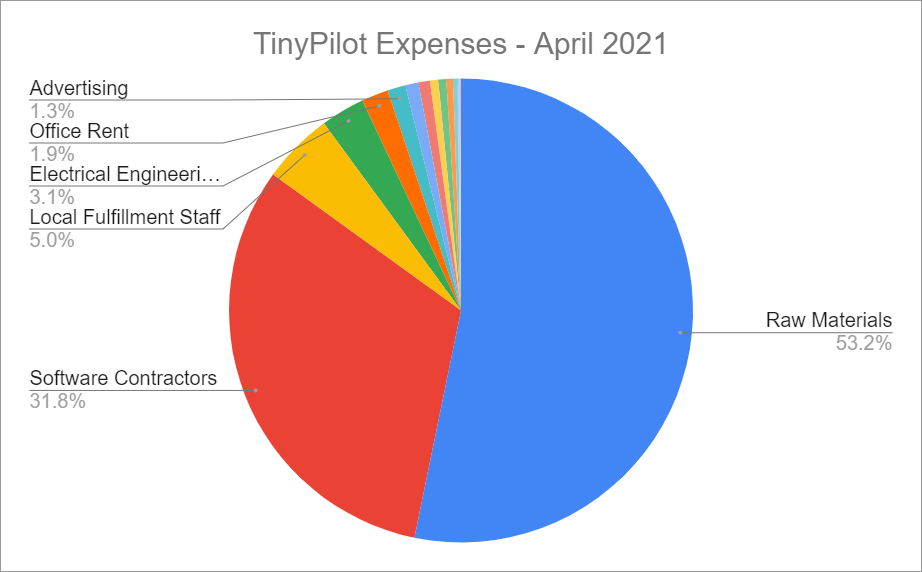
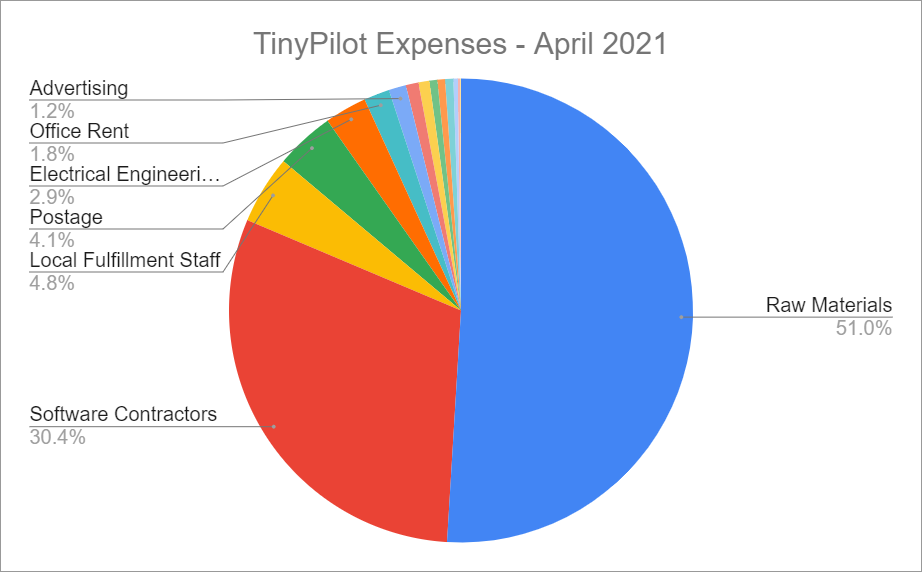
Fix postage calculation in May 2021 retro
My bookkeeping script was accidentally counting everything from Shopify as income (even when it was negative), so it was missing the postage expenses I was paying to Shopify.

diff --git a/content/retrospectives/2021/06/index.md b/content/retrospectives/2021/06/index.md
@@ -109,6 +109,7 @@ Based on Mike's advice, I took a closer look at my expenses. I haven't done my b
 | Raw Materials                     | $15,637.68   |
 | Software Contractors              |  $9,331.79   |
 | Local Fulfillment Staff           |  $1,460.12   |
+| Postage                           |  $1,262.53   |
 | Electrical Engineering Consulting |   $901.25    |
 | Office Rent                       |   $550.00    |
 | Advertising                       |   $370.00    |
@@ -116,7 +117,7 @@ Based on Mike's advice, I took a closer look at my expenses. I haven't done my b
 | Office Equipment                  |   $233.72    |
 | Graphic Design                    |   $169.00    |
 | Stickers                          |   $163.63    |
-| Cloud Services                    |   $137.33    |
+| Cloud Services                    |   $176.33    |
 | Misc                              |    $161.21   |
 
 My cost for raw materials isn't so surprising. My profit margin on physical products is generally around 50-60%, so $15k matches what I'd expect on about $30k of sales. There's not much wiggle room there, as there aren't cheaper alternatives to the materials I buy. There are a few items like cables where I pay a premium for quality, but that's a difference of $1-2/unit on a product I sell for $300. The expensive parts are things that have no cheaper alternatives, like the Raspberry Pis or the HDMI capture chips.
